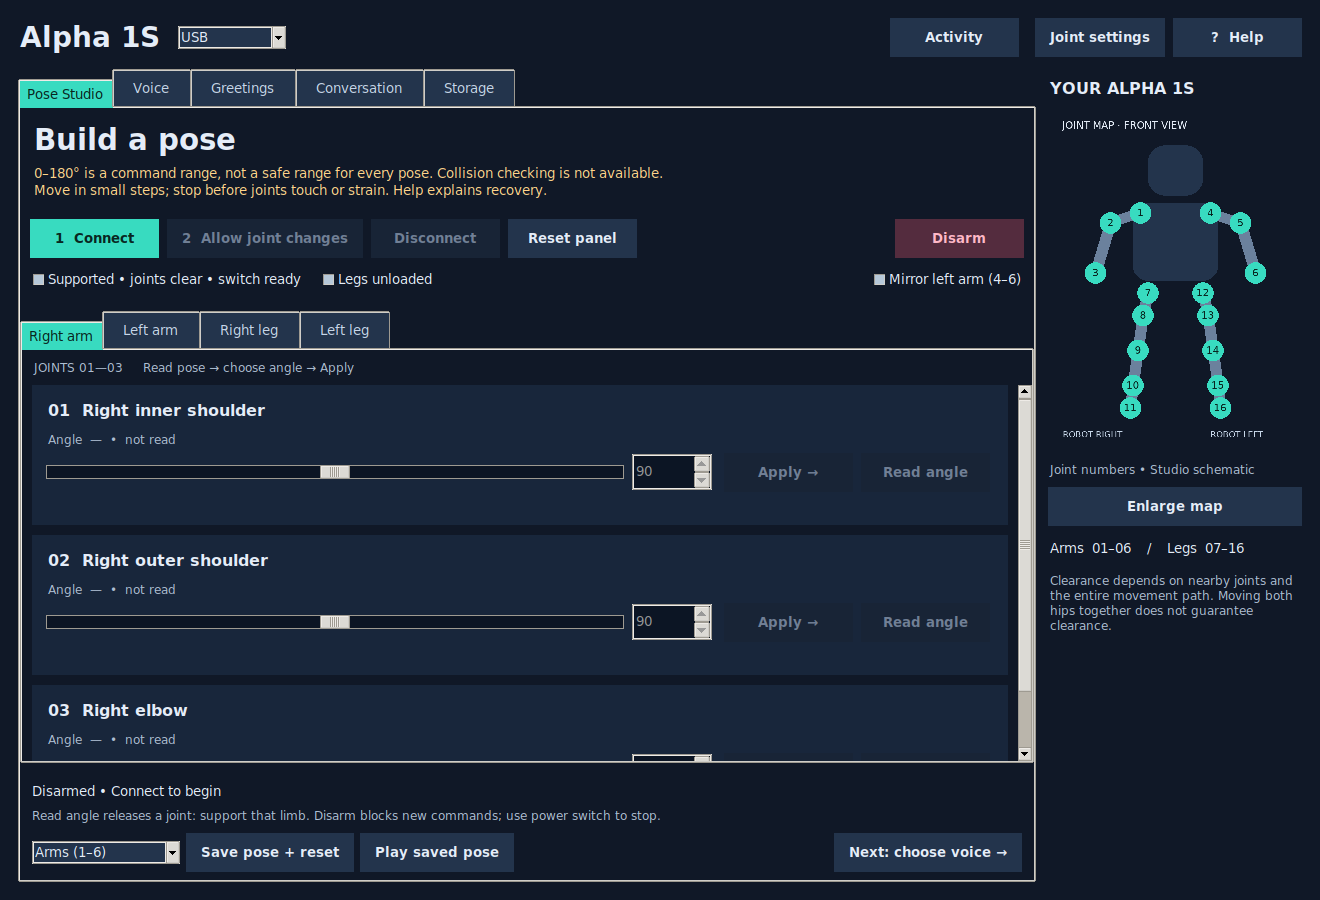
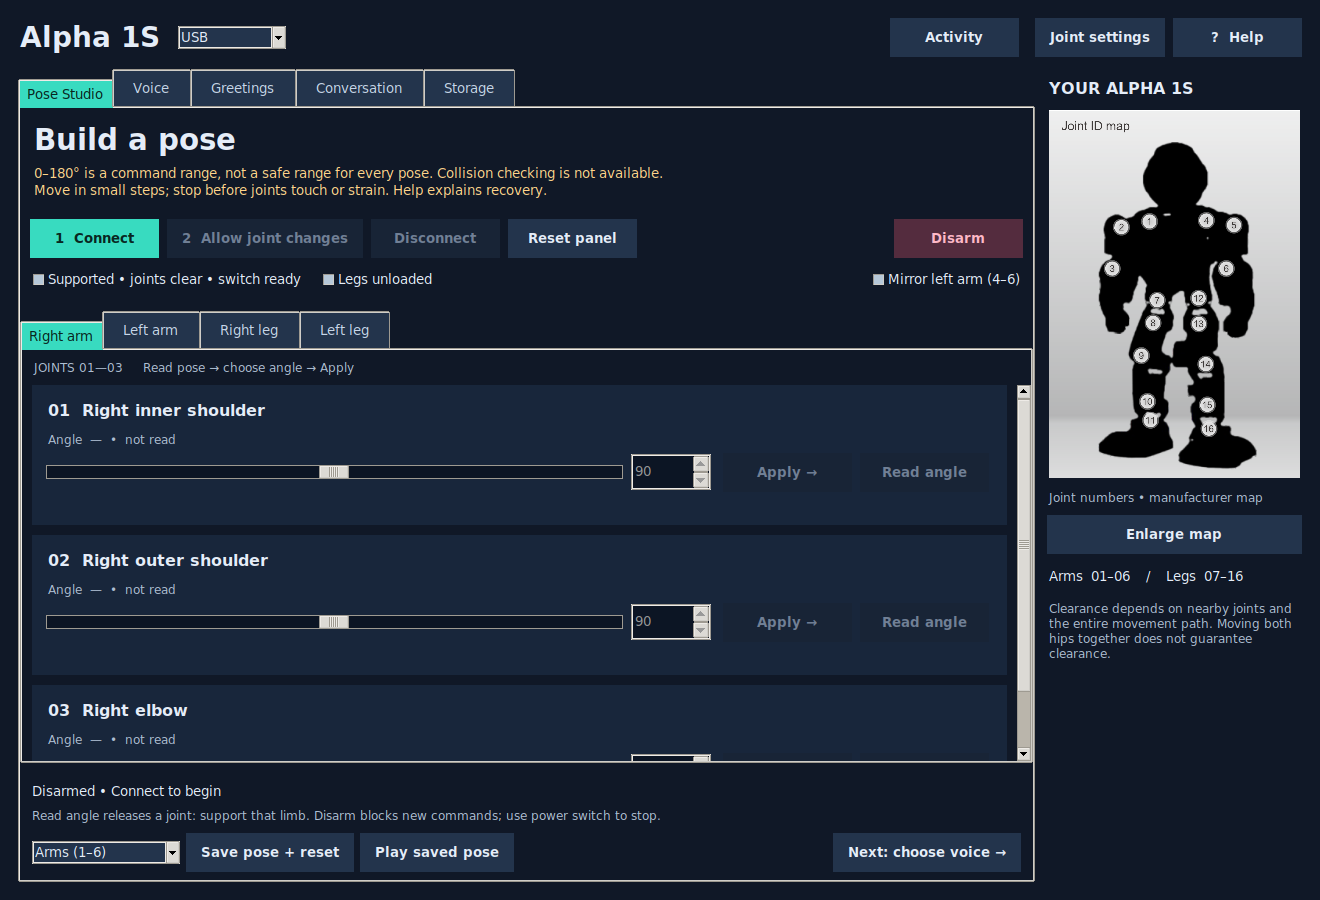
Refresh Studio joint map and preview

diff --git a/README.md b/README.md
@@ -181,4 +181,4 @@ For bug reports, include OS/Python, hardware/firmware, the UI step and a redacte
 
 ## License and credits
 
-An independent community project integrating UBTECH Alpha 1S with the Gemini API. [MIT license](LICENSE) covers the project source and original assets. UBTECH and Gemini names belong to their respective owners. Import your robot's native actions from its card. Python/Tk, BlueZ, ALSA, eSpeak NG, LAME and optional keyring retain their respective licenses.
+An independent community project integrating UBTECH Alpha 1S with the Gemini API. [MIT license](LICENSE) covers the project source and original assets. The displayed Joint ID map is reproduced from the UBTECH Alpha 1S user manual and remains attributed to UBTECH. UBTECH and Gemini names belong to their respective owners. Import your robot's native actions from its card. Python/Tk, BlueZ, ALSA, eSpeak NG, LAME and optional keyring retain their respective licenses.
